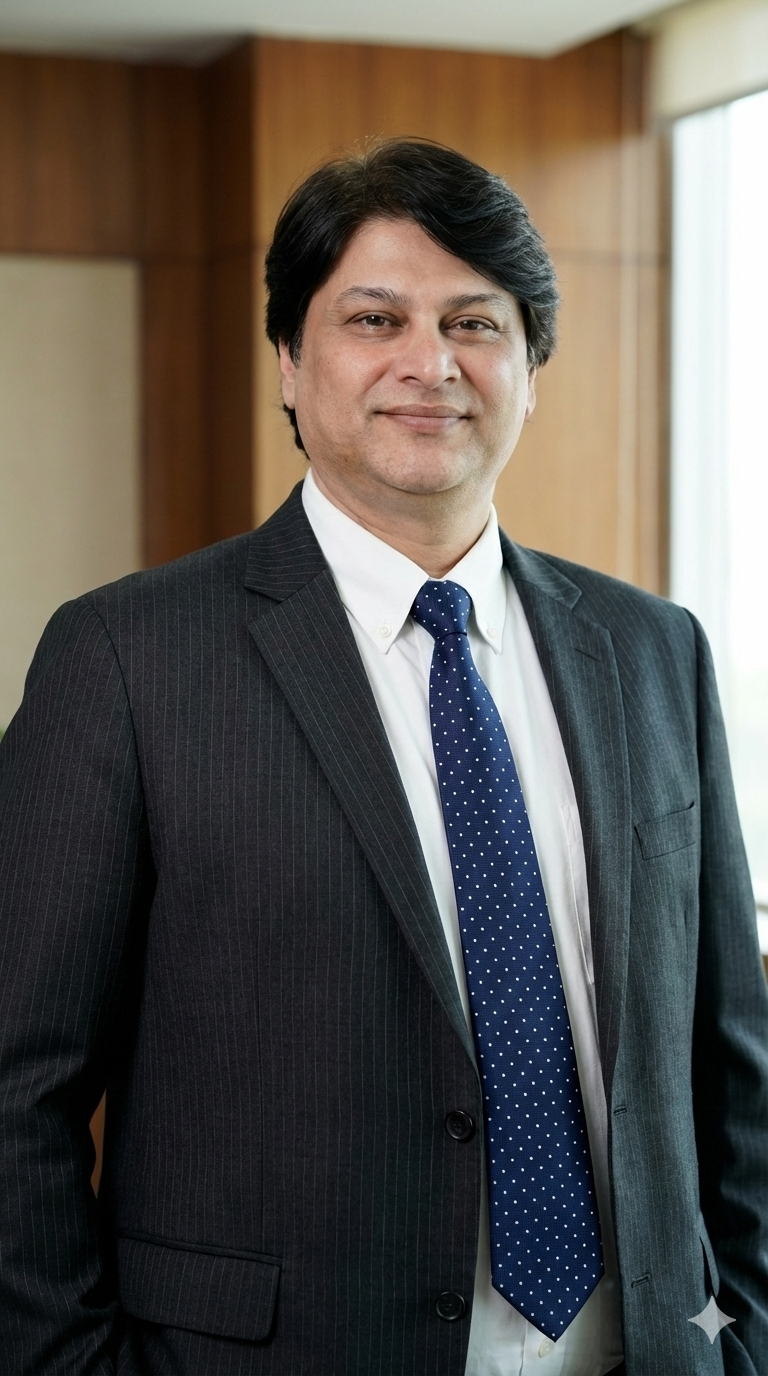
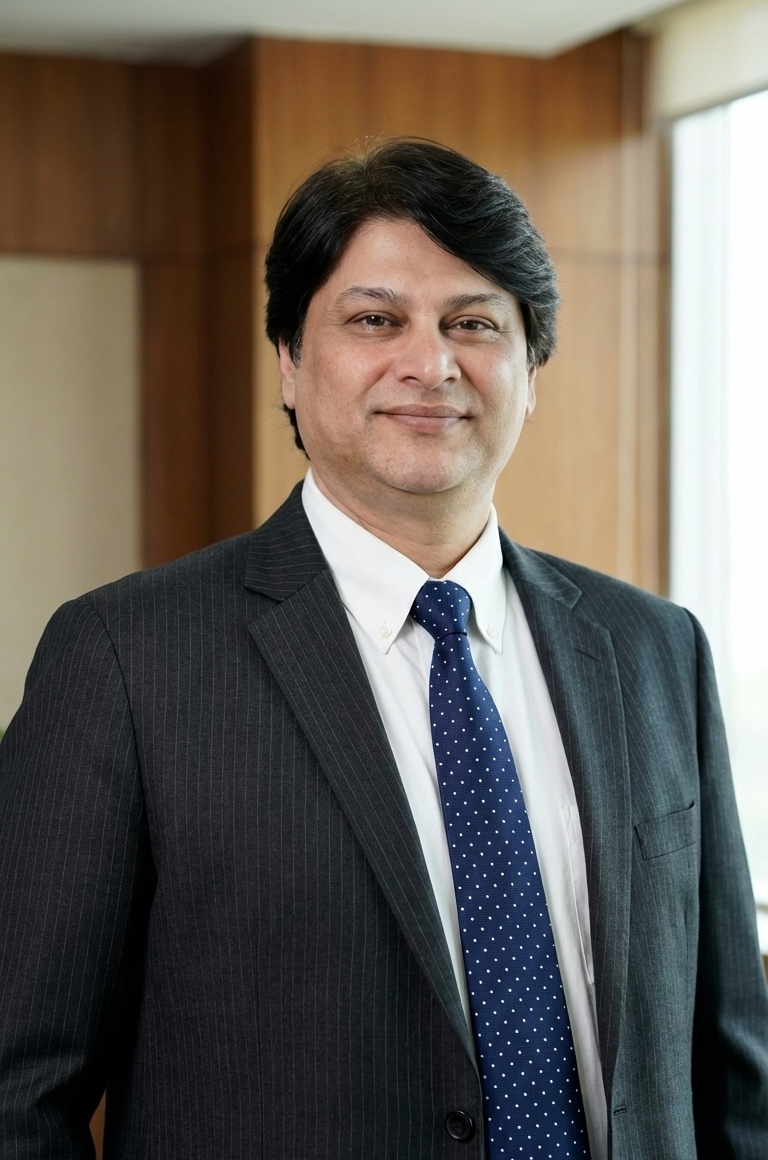
photo chage

diff --git a/our-team.html b/our-team.html
@@ -404,7 +404,7 @@
 
                                 <a href="#" class="has-before hover:shine">
                                     <figure class="card-banner img-holder" style="--width: 285; --height: 336;">
-                                        <img src="./assets/images/experts/expert1-vinay.jpeg" width="285" height="336" loading="lazy"
+                                        <img src="./assets/images/experts/viney-sir.png" width="285" height="336" loading="lazy"
                                             alt="Breakfast" class="img-cover">
                                     </figure>
                                 </a>

diff --git a/about-us.html b/about-us.html
@@ -446,7 +446,7 @@
 
                       <figure class="about-banner">
 
-                        <img src="./assets/images/experts/expert1-vinay.jpeg" width="570" height="570" loading="lazy"
+                        <img src="./assets/images/experts/viney-sir.png" width="570" height="570" loading="lazy"
                             alt="about banner" class="w-100" data-parallax-item data-parallax-speed="1">
 
                      
